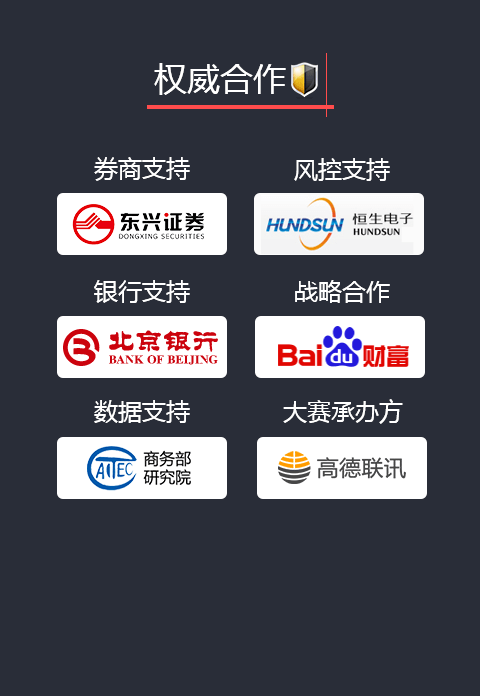
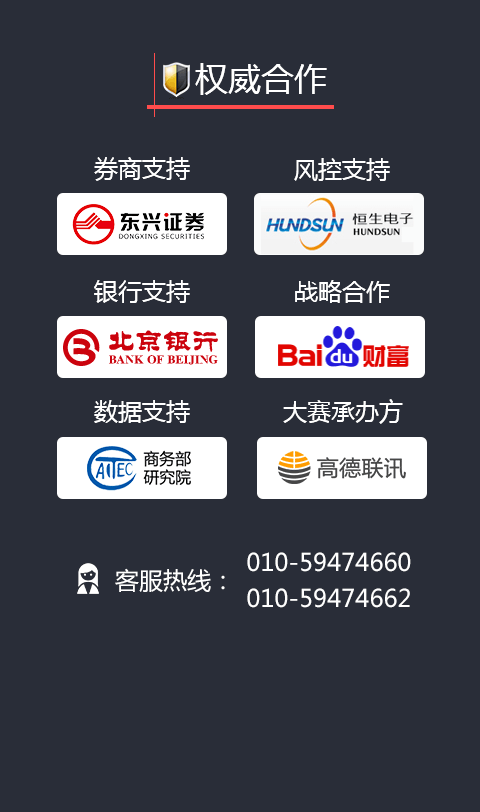
Signed-off-by: Fengsheng Li <lifengsheng@uniwa.cn>

diff --git a/炒股大赛移动/0612专题.html b/炒股大赛移动/0612专题.html
@@ -20,11 +20,17 @@ li{ list-style:none;}
 .pic4{ background:url(images/0612zhuantibg_04.png) no-repeat; height:298px;}
 .pic5{ background:url(images/0612zhuantibg_05.png) no-repeat; height:525px;}
 .pic6{ background:url(images/0612zhuantibg_06.png) no-repeat; height:691px;}
-.pic7{ background:url(images/0612zhuantibg_08.png) no-repeat; height:696px;}
+.pic7{ background:url(images/0612zhuantibg_08.png) no-repeat; height:782px;}
 
-.mscs,.mscs2,.mscs3{ border-radius: 10px; background-color: rgb(255, 76, 76); position: absolute; left: 130px; top: 417px; width: 220px; height: 67px; z-index: 1; line-height:67px; text-align:center; font-size:30px;}
+.mscs,.mscs2,.mscs3,.yyzh,.yyzh2,.yyzh3{ border-radius: 10px; background-color: rgb(255, 76, 76); position: absolute; left: 130px; top: 417px; width: 220px; height: 67px; z-index: 1; line-height:67px; text-align:center; font-size:30px; display:block;}
 .mscs2{ top:auto; bottom:40px;}
 .mscs3{ top:auto;bottom:60px;}
+
+.yyzh,.yyzh2,.yyzh3{ background:none; height:20px; font-size:16px; line-height:20px;}
+.yyzh{ top:490px;}
+.yyzh2{ top:1158px;}
+.yyzh3{ top:730px;}
+.yyzh b,.yyzh2 b,.yyzh3 b{ color:#fccd18;}
 
 .gaoshougd{ background:#292d38; width:480px;border-radius:10px; margin:0 auto; height:183px; overflow:hidden;}
 .gaoshougd table{ width:440px; border-radius:10px; font-size:12px; margin:0 auto;background:#3e414a; border:1px solid #242936; color:#f9edbb; line-height:2em;}
@@ -49,9 +55,9 @@ li{ list-style:none;}
 
 <body>
 <div class="main">
-<div class="pic1"><a class="mscs">马上参赛</a></div>
+<div class="pic1"><a class="mscs">马上参赛</a><a href="#" class="yyzh">已有帐号<b>立即登录</b></a></div>
 <div class="pic2"></div>
-<div class="pic3"><a class="mscs2">马上参赛</a></div>
+<div class="pic3"><a class="mscs2">马上参赛</a><a href="#" class="yyzh2">已有帐号<b>立即登录</b></a></div>
 <div class="pic4"></div>
 <div class="pic5"></div>
 <div class="pic6"></div>
@@ -68,18 +74,18 @@ li{ list-style:none;}
 		<tr><td>股市大赢家</td><td class="red">2226.26/22.2%</td><td>10000</td><td>2500</td><td><a class="yellow">我也要加入</a></td></tr>
 	</table>
 </div>
-<div class="pic7"><a class="mscs3">马上参赛</a></div>
+<div class="pic7"><a class="mscs3">马上参赛</a><a href="#" class="yyzh3">已有帐号<b>立即登录</b></a></div>
 </div>
 
 
-<div class="tanchuan tanchuan_yzm">
+<!--<div class="tanchuan tanchuan_yzm">
 请输入手机收到的验证码<div>
 <input class="intel intel2 " placeholder="请输入手机号"  type="tel">
 <input class="intel intel2 intel3" placeholder="请输入验证码"  type="tel"><input type="button" value="获取验证码" class="send_captcha" id="send_captcha"><input type="button" value="120S" class="send_captcha send_captcha_time" id="send_captcha"></div>
 <a class="subbt2">确定</a>
 <span class="red">手机号码错误</span><a class="ztclosed"><img src="images/zzttclosed.png"></a>
 </div>
-
+-->
 
 
 

diff --git a/炒股大赛移动/0612专题MM财经.html b/炒股大赛移动/0612专题MM财经.html
@@ -20,11 +20,17 @@ li{ list-style:none;}
 .pic4{ background:url(images/0612zhuantibg_04.png) no-repeat; height:298px;}
 .pic5{ background:url(images/0612zhuantibg_05.png) no-repeat; height:525px;}
 .pic6{ background:url(images/0612zhuantibg_06.png) no-repeat; height:691px;}
-.pic7{ background:url(images/0612zhuantibg_08.png) no-repeat; height:676px;}
+.pic7{ background:url(images/0612zhuantibg_08.png) no-repeat; height:782px;}
 
-.mscs,.mscs2,.mscs3{ border-radius: 10px; background-color: rgb(255, 76, 76); position: absolute; left: 130px; top: 417px; width: 220px; height: 67px; z-index: 1; line-height:67px; text-align:center; font-size:30px;}
+.mscs,.mscs2,.mscs3,.yyzh,.yyzh2,.yyzh3{ border-radius: 10px; background-color: rgb(255, 76, 76); position: absolute; left: 130px; top: 417px; width: 220px; height: 67px; z-index: 1; line-height:67px; text-align:center; font-size:30px; display:block;}
 .mscs2{ top:auto; bottom:40px;}
 .mscs3{ top:auto;bottom:60px;}
+
+.yyzh,.yyzh2,.yyzh3{ background:none; height:20px; font-size:16px; line-height:20px;}
+.yyzh{ top:490px;}
+.yyzh2{ top:1158px;}
+.yyzh3{ top:730px;}
+.yyzh b,.yyzh2 b,.yyzh3 b{ color:#fccd18;}
 
 .gaoshougd{ background:#292d38; width:480px;border-radius:10px; margin:0 auto; overflow:hidden;}
 .gaoshougd table{ width:440px;  font-size:12px; margin:0 auto;background:#3e414a; color:#f9edbb; line-height:2em;}
@@ -51,9 +57,9 @@ li{ list-style:none;}
 
 <body>
 <div class="main">
-<div class="pic1"><a class="mscs">马上参赛</a></div>
+<div class="pic1"><a class="mscs">马上参赛</a><a href="#" class="yyzh">已有帐号<b>立即登录</b></a></div>
 <div class="pic2"></div>
-<div class="pic3"><a class="mscs2">马上参赛</a></div>
+<div class="pic3"><a class="mscs2">马上参赛</a><a href="#" class="yyzh2">已有帐号<b>立即登录</b></a></div>
 <div class="pic4"></div>
 <div class="pic5"></div>
 <div class="pic6"></div>
@@ -78,7 +84,7 @@ li{ list-style:none;}
     
     
 </div>
-<div class="pic7"><a class="mscs3">马上参赛</a></div>
+<div class="pic7"><a class="mscs3">马上参赛</a><a href="#" class="yyzh3">已有帐号<b>立即登录</b></a></div>
 <div class="hymmcj">欢迎来到“亿元民间炒股大赛”，移动MM作为本次大赛战略合作伙伴负责相关宣传工作。祝您取得好成绩！股市有风险，投资需谨慎！</div>
 </div>
 
